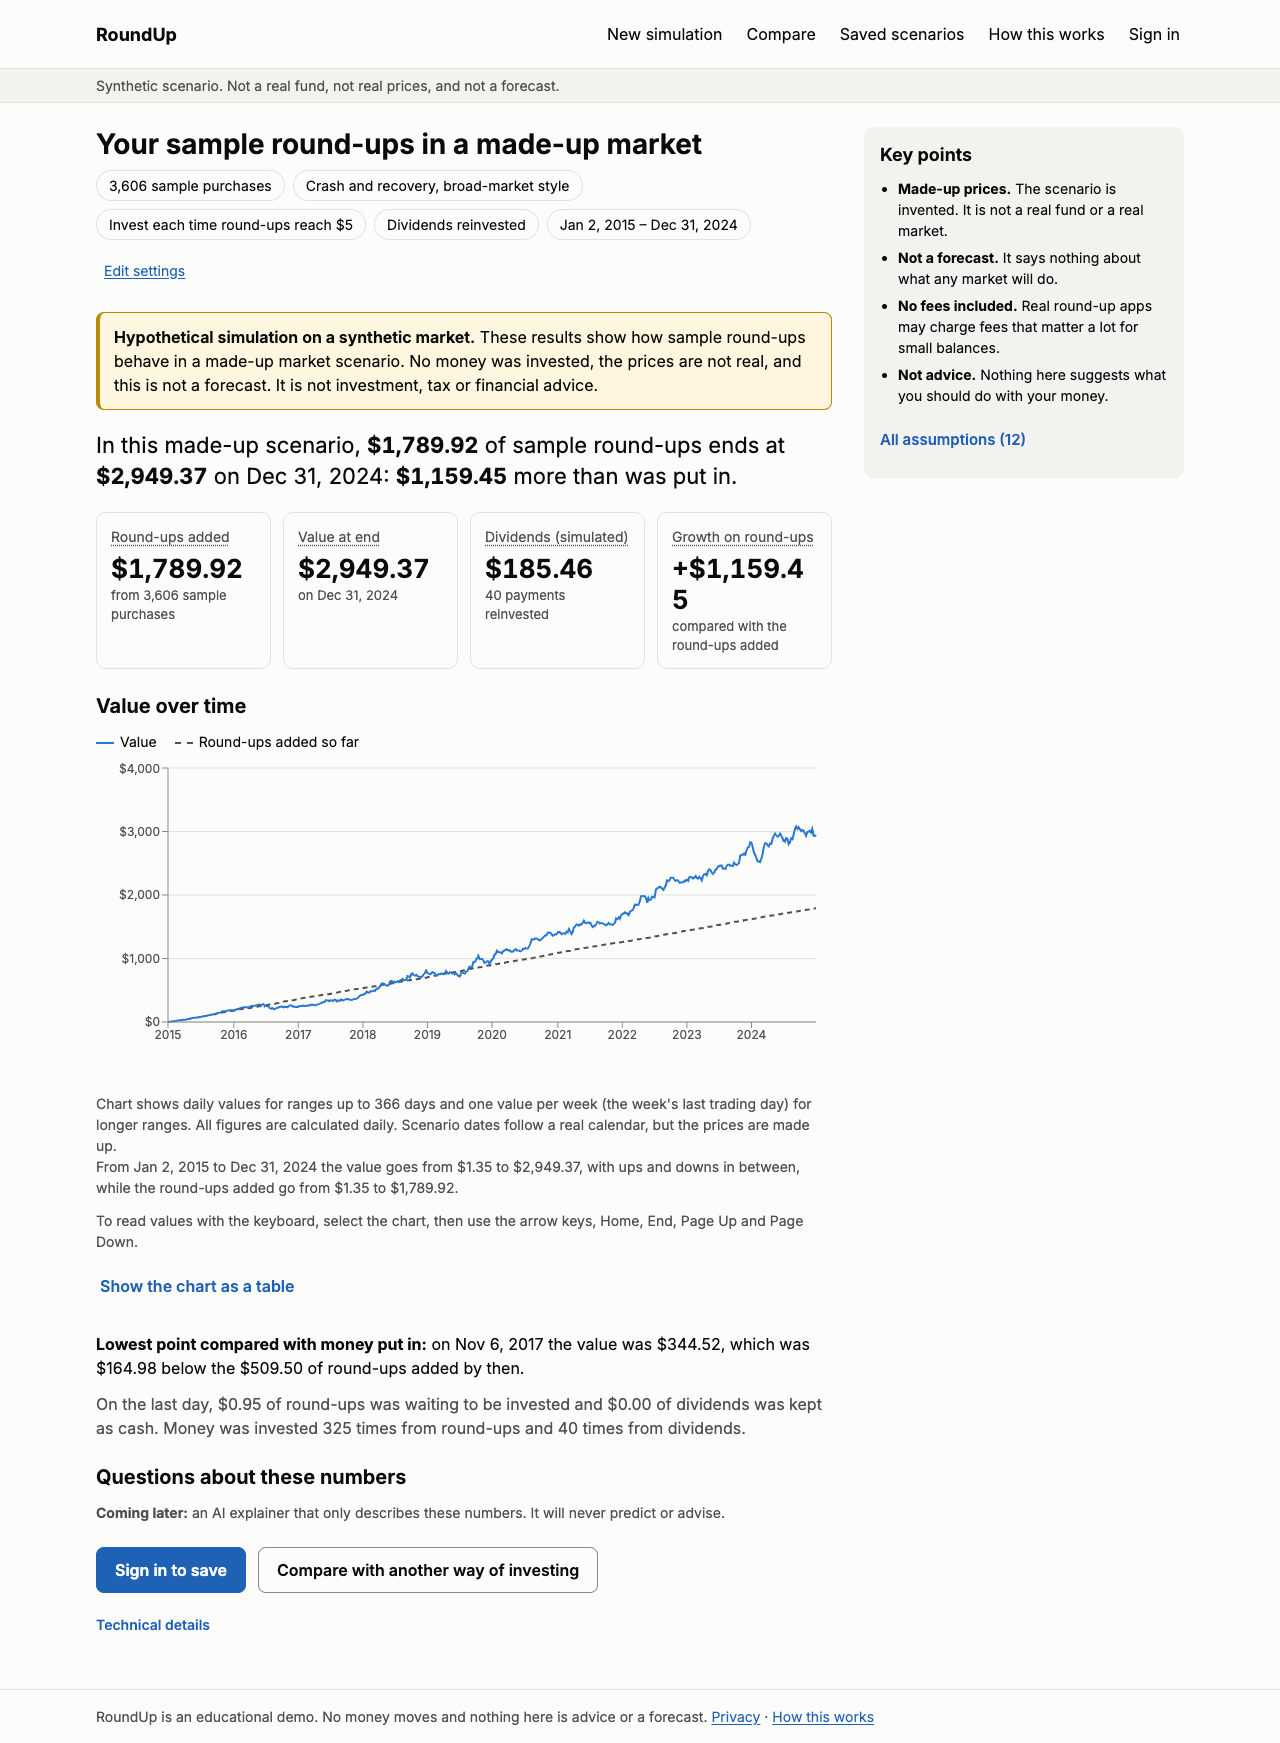
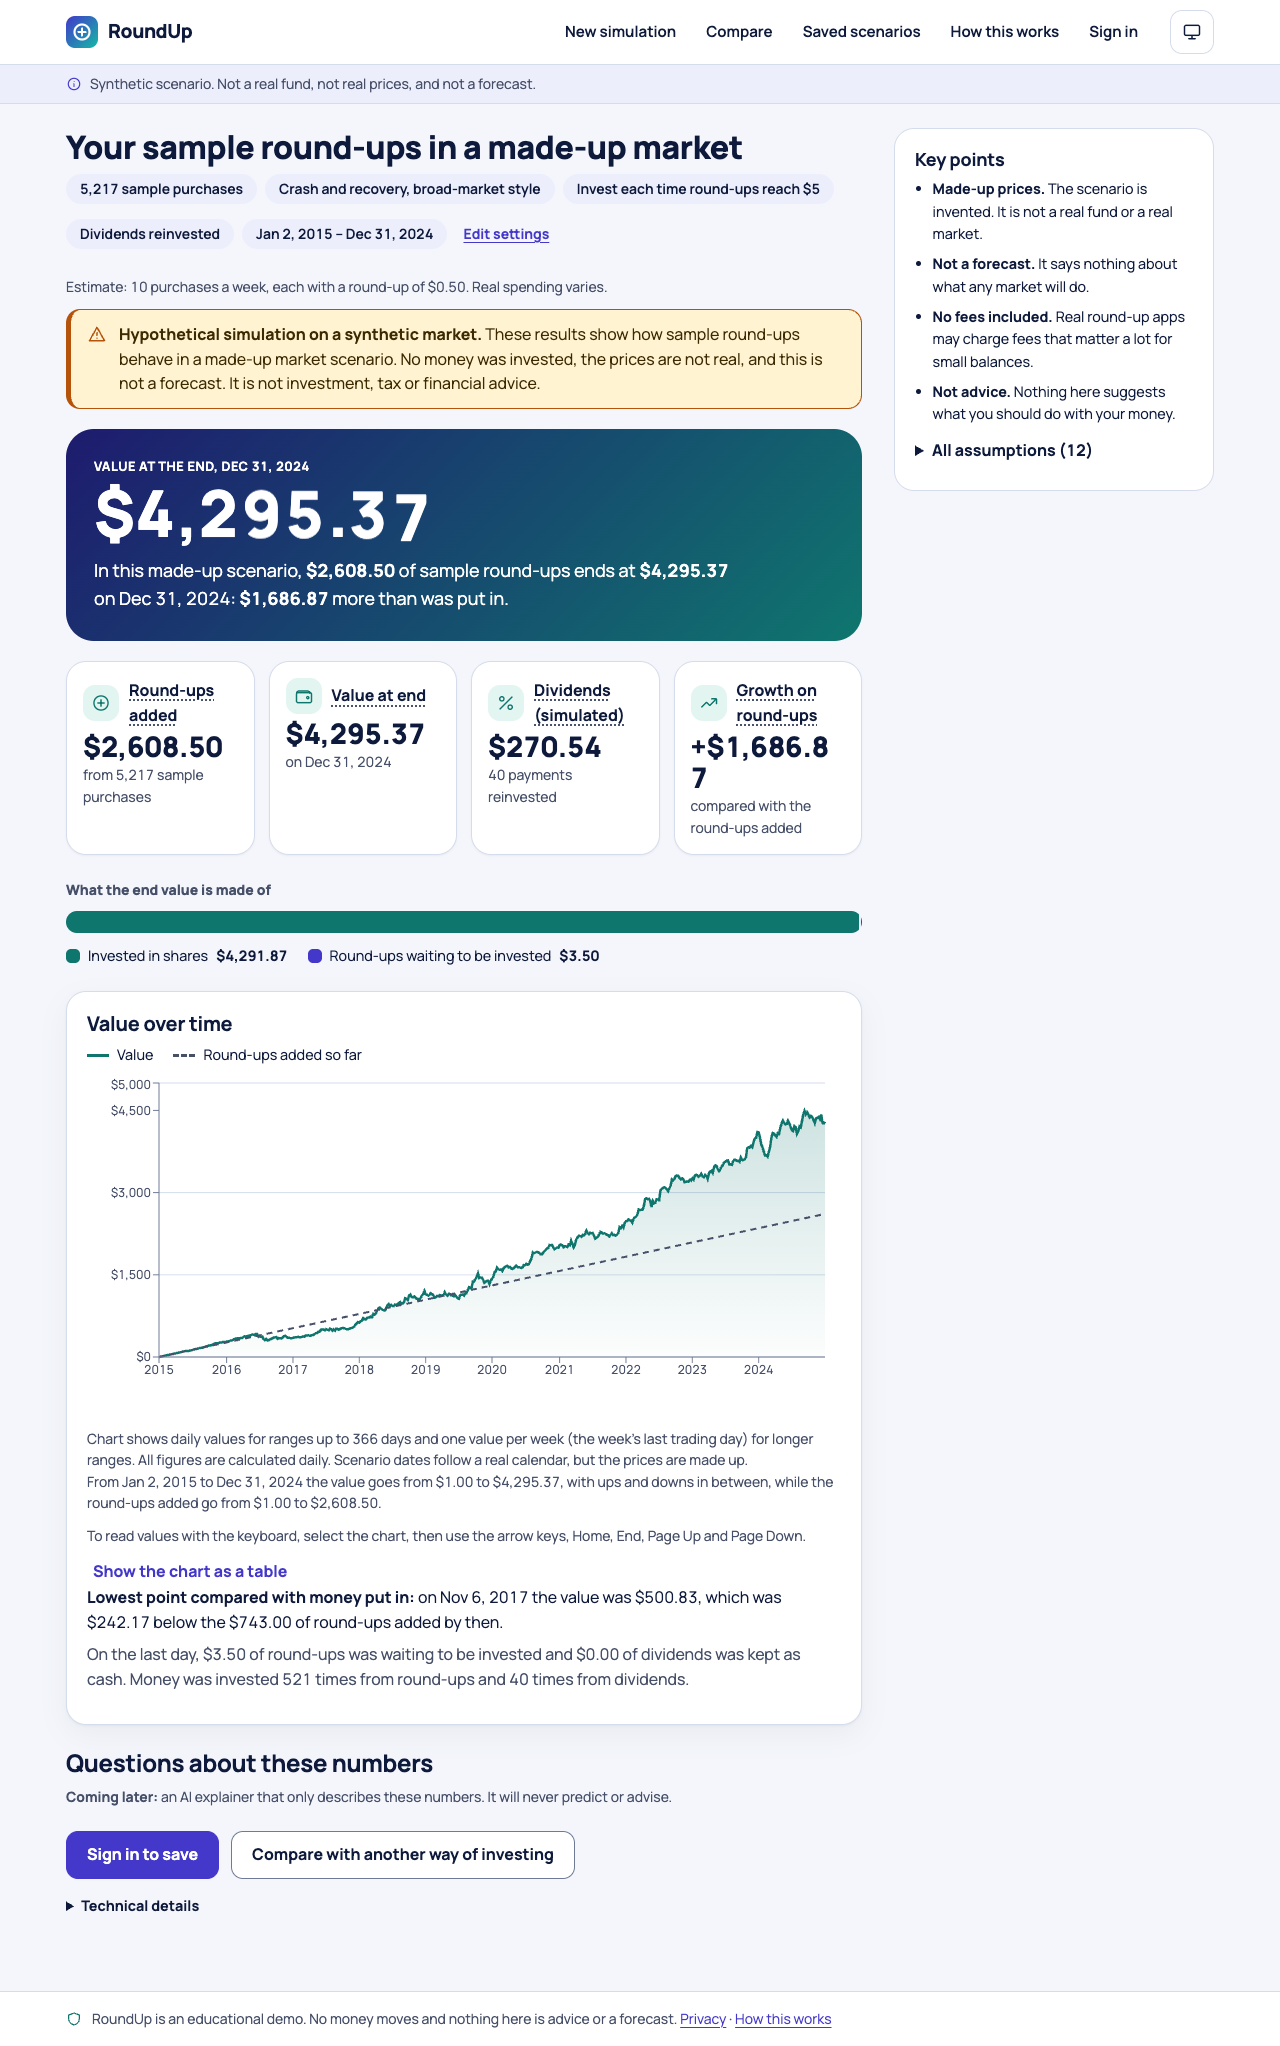
Docs: redesign wording, as-built notes, OQ-14

diff --git a/COPY.md b/COPY.md
@@ -175,3 +175,14 @@ The first label, "Made-up purchase list number", was approved; the shorter alter
 - **Tucked-away box** (closed until opened; opened automatically on an error): "**Adjust the average round-up**" · "A round-up is the spare change up to the next dollar. Across everyday prices the average spare change is about 50 cents, so $0.50 is the starting setting. Choose a higher average if your purchases usually end just under a whole dollar, or a lower one if they usually end just over." Field: "Average round-up per purchase", hint "From $0.01 to $0.99, written like 0.50." Error: "Enter an average round-up from $0.01 to $0.99, written like 0.50."
 - **Results:** under the settings chips, "Estimate: {n} purchases a week, each with a round-up of {$avg}. Real spending varies." Technical details: "typical spending, {n} purchases a week, average round-up {$avg}".
 - **No live "estimated round-ups" preview** while the slider moves: it would need arithmetic in the browser (not allowed) or an API call on every move (the rate limit). The exact figure appears on the results page.
+
+## Redesign (2026-10-15; every disclaimer above is unchanged and stays visible)
+- **Hero (setup page):** small label "An educational demo" · heading "See how spare change behaves in a made-up market" · "Say how many purchases you make in a typical week, pick a made-up market, and watch the round-ups add up. Everything here is an estimate on made-up prices: no real money, no real funds, no advice." · one button "Start a simulation" and a quieter link "How this works".
+- **Progress rail:** "Your purchases", "Market scenario", "How round-ups are invested", "Dates" (read out as "Step n of 4: ...").
+- **Scenario chips** (next to each made-up market, beside its sparkline, which screen readers skip): steady growth "Gradual rise", crash and recovery "Dip and back", sideways "Wanders about", high volatility "Big swings". They describe the shape of the invented prices, never what a real market will do.
+- **Results hero:** "Value at the end, {date}" with the engine's figure; the sentence below it ("In this made-up scenario, ...") is unchanged.
+- **Stat cards:** "Round-ups added", "Value at end", "Dividends (simulated)", "Growth on round-ups" (dollar figure only, OQ-9), each with an icon that is hidden from screen readers.
+- **Composition strip:** heading "What the end value is made of"; legend "Invested in shares", "Round-ups waiting to be invested", "Dividends kept as cash", each with its dollar figure.
+- **Compare:** two cards, A and B, and one sentence: "In this one made-up scenario, B ends {amount} higher/lower than A on the last day." or "...A and B end at the same value on the last day."
+- **Theme button:** names the current choice (system, light, dark) and what pressing it does.
+- **Loading, empty and error states:** skeleton cards while scenarios load (announced as a status message, not by the skeletons); "Nothing saved yet" with a "Start a simulation" link; errors say what happened and what to do ("We couldn't reach the RoundUp service. Check your connection and try again.").

diff --git a/DESIGN.md b/DESIGN.md
@@ -166,8 +166,13 @@ Header (logo mark, nav, theme toggle: system by default, explicit override remem
 Area chart with a soft gradient fill under the **value** line (teal), a dashed **round-ups added** line (slate-indigo), one axis starting at $0, recessive grid, no animation. Compare: two small multiples on a shared scale, A teal and B indigo, each labelled A or B so colour is never the only cue. A table and a text summary stay for every chart.
 
 ### Where I changed your direction, and why
-1. **"Colour-coded strip splitting contributions, growth, dividends and cash waiting"** becomes a strip showing **what the end value is made of**: shares, round-ups waiting, dividends kept as cash (the parts always add up to the end value). Growth can be negative, which a split cannot show honestly, and the widths must come from the engine, not the browser. The shares are computed in the engine (rule R-13.3, with golden cases and an independent cross-check).
+1. **"Colour-coded strip splitting contributions, growth, dividends and cash waiting"** becomes a strip showing **what the end value is made of**: shares, round-ups waiting, dividends kept as cash (the parts always add up to the end value). Growth can be negative, which a split cannot show honestly, and the widths must come from the engine, not the browser. The shares are computed in the engine (rule R-13.4, with golden cases and an independent cross-check).
 2. **Guided stepper** is one page with a sticky progress rail rather than a hide-and-reveal wizard: fewer clicks, nothing hidden, simpler keyboard and screen-reader use.
 3. **Count-up** rolls the digits of the engine's own figure (CSS) instead of interpolating numbers, because the browser must never calculate a money figure.
 4. **Sparklines** are drawn from the scenario model itself, not hand-drawn lookalikes, so they cannot misrepresent a scenario.
 5. **Amber** stays for warnings and notes only (the disclaimer note, errors that need attention); the colourful accents are teal and indigo.
+
+### As built (2026-10-15)
+- Screens, states and modes: 21 screens and states in light, dark and mobile are in `web/screenshots/redesign/after/` (JPEG, with the pre-redesign set in `before/` and accessibility-tree text in `aria/`). `web/e2e/redesign-shots.spec.ts` regenerates them; `web/tools/compress-shots.sh` makes the JPEGs.
+- The spec above was built as written. Differences: scenario sparklines share one log scale across all eight scenario series (per-scenario scaling made "sideways" look like a crash); the progress rail follows the scroll position (an intersection observer picked the wrong step); the digit roll takes about a second and is off under reduced motion; the hero figure is drawn with digit windows whose real text stays in the page for screen readers and copying.
+- Open visual notes from my own look at the screenshots: on the results page the "Show the chart as a table" link sits close to the line below it; the composition strip shows the waiting round-ups as a very thin sliver when they are tiny (correct, but easy to miss, and the legend carries the number).

diff --git a/OPEN-QUESTIONS.md b/OPEN-QUESTIONS.md
@@ -40,3 +40,4 @@ You asked for the most conservative reasonable default on everything you did not
 | OQ-7 | Whether to show **real** VOO/SCHD results locally in a recorded walkthrough (e.g. a video for the cohort) | A recording shown to others is arguably display | Include in the provider emails' answers | Any recording using real data |
 | ~~OQ-12~~ | Unrecognised statuses | — | **Resolved 2026-10-14 (owner): the cautious rule, R-1.4a.** Only posted, settled, cleared and completed count; other words are flagged in the check step and left out until the user ticks a box | — |
 | ~~OQ-13~~ | Dates with a time | — | **Resolved 2026-10-14 (owner): keep rejecting them**, with a message that names the accepted formats | — |
+| OQ-14 | Whether a screen-reader user finds the digit-roll hero figure, the progress rail and the sparklines clear | I measured structure with axe, keyboard tests and accessibility-tree snapshots, but not a real screen reader (see TEST-STRATEGY §0.2) | Your VoiceOver pass | Nothing |
